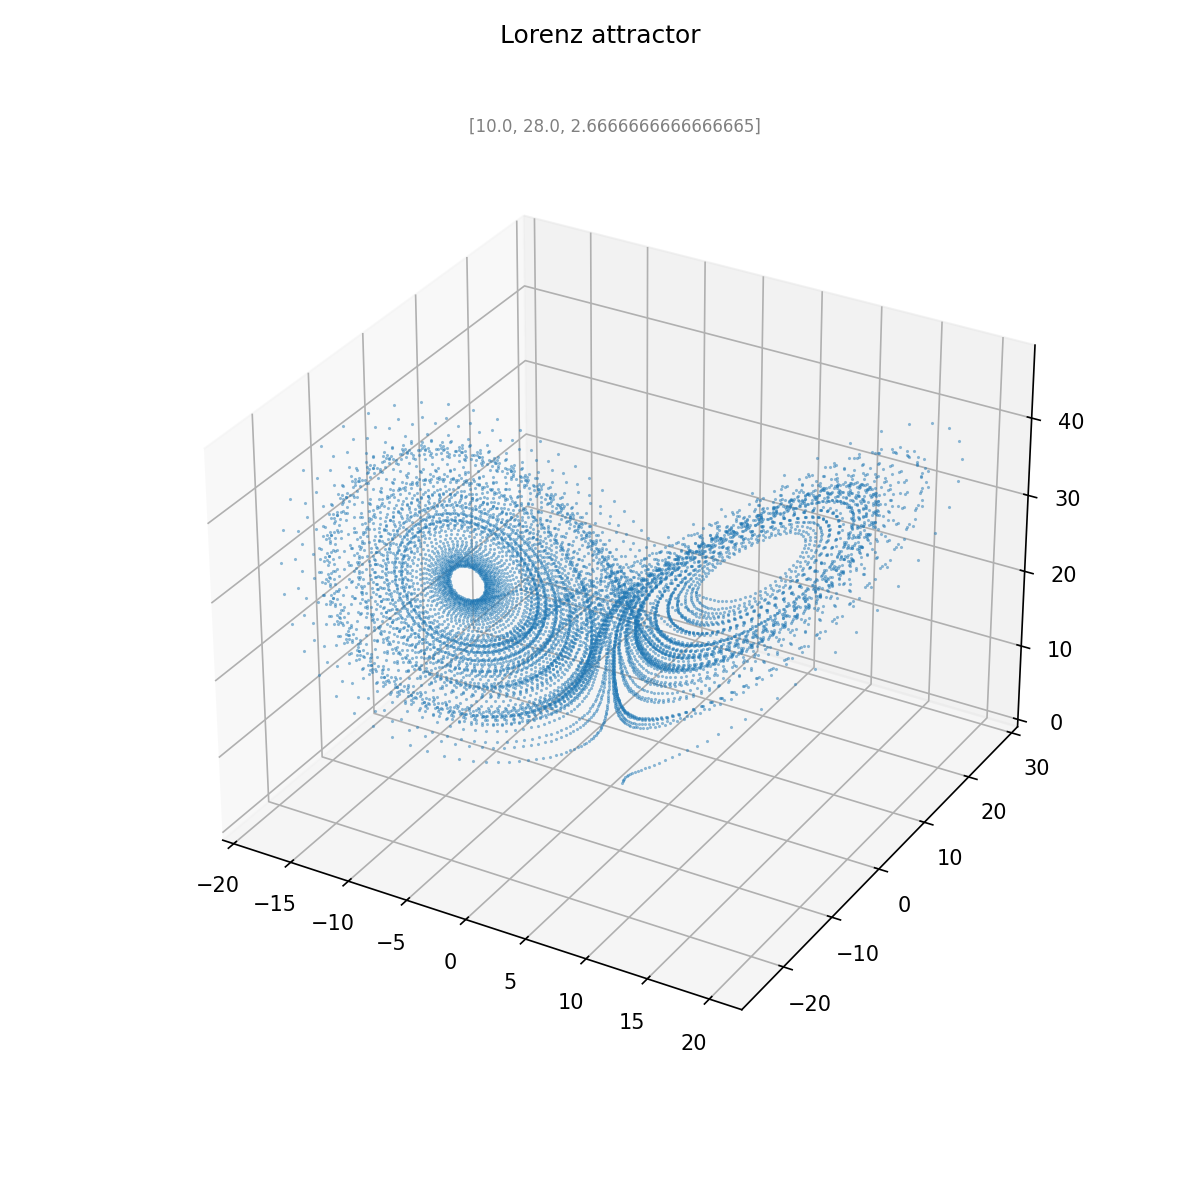
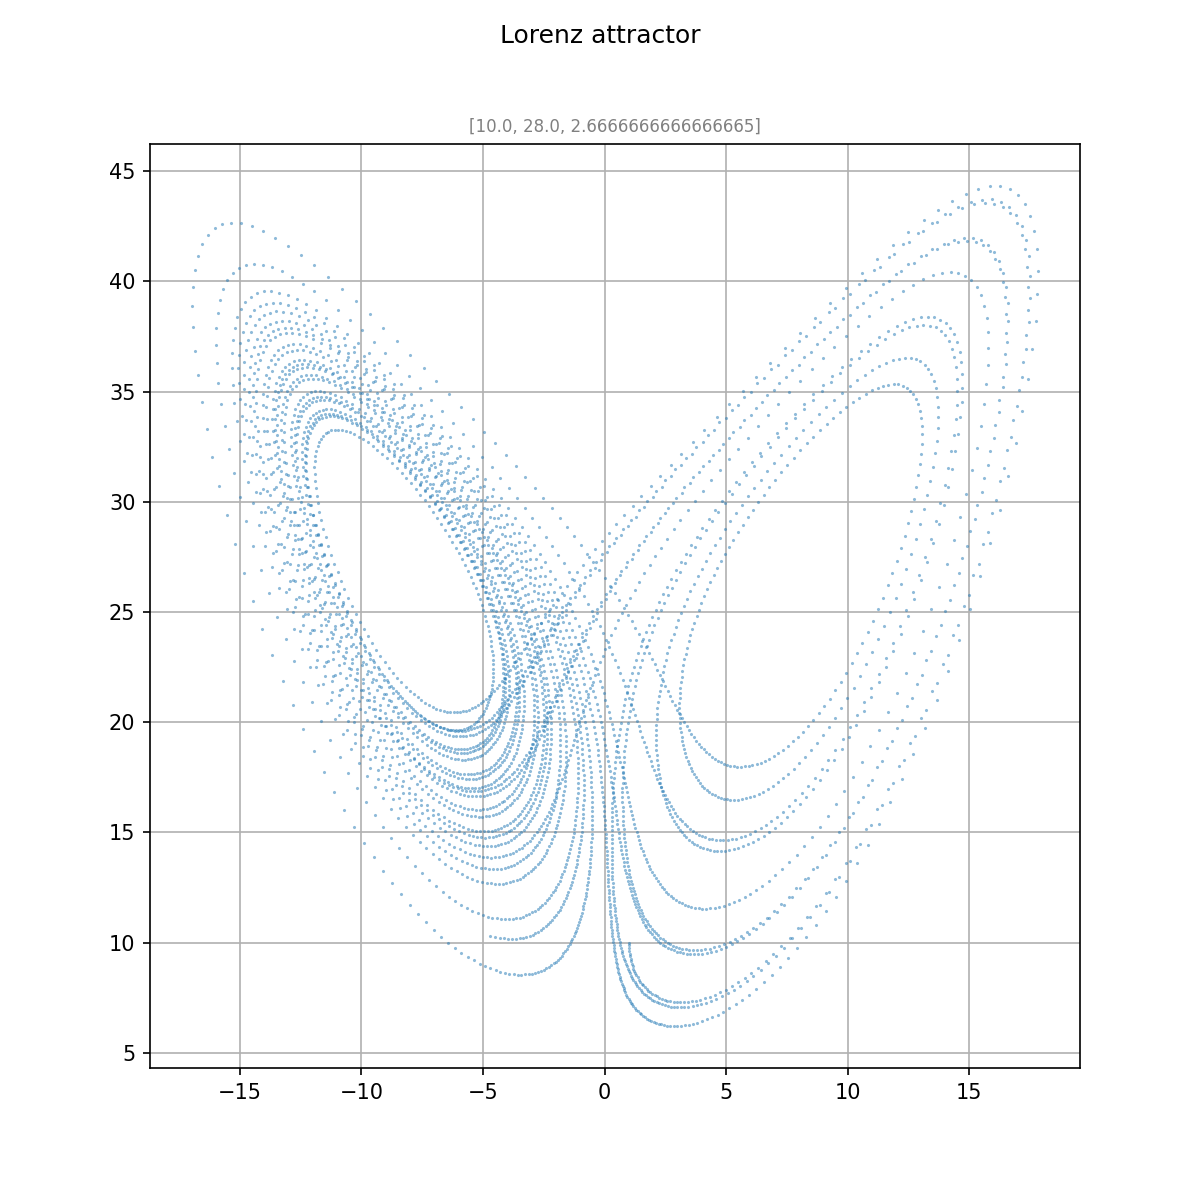
python version of lorenz attractor

diff --git a/ode/lorenz_attractor/python/attractor.py b/ode/lorenz_attractor/python/attractor.py
@@ -1,12 +1,11 @@
 import matplotlib.pyplot as plt
-
 from scipy.integrate import solve_ivp
 
-u0 = [1.0, 0.0, 0.0]
+u0 = [1.0, 1.0, 10.0]
 params = [10.0, 28.0, 8/3]
 
-t_step = 0.01
-N_max = 10000
+t_step = 0.005
+N_max = 4801
 t_max = N_max*t_step
 
 def f(t, u):
@@ -20,15 +19,16 @@ sol = solve_ivp(
     u0,
     t_eval=[n*t_step for n in range(0, N_max)],
     method="DOP853",
-    rtol=1e-10,
-    atol=1e-9
+    rtol=5e-11,
+    atol=1e-11
 )
 
 fig = plt.figure(figsize=(8, 8))
-ax = fig.add_subplot(111, projection='3d')
+# ax = fig.add_subplot(111, projection='3d')
+ax = fig.add_subplot()
 ax.plot(
     sol.y[0, :],
-    sol.y[1, :],
+    # sol.y[1, :],
     sol.y[2, :],
     fillstyle='full',
     marker='o',
@@ -39,6 +39,7 @@ ax.plot(
 label = '%s' % params
 plt.suptitle("Lorenz attractor")
 plt.title(label, color='grey', size=8)
+plt.grid()
 
 plt.show()
 fig.savefig("orbit.png", dpi=150)

diff --git a/ode/lorenz_attractor/README.md b/ode/lorenz_attractor/README.md
@@ -37,6 +37,6 @@ $$
 
 The system exhibits chaotic behavior for values near $\sigma = 10$, $\rho = 28$, $\beta = \frac{8}{3}$.
 
-For initial conditions $(1, 0, 0)$
+For initial conditions $(1, 1, 10)$
 
 ![lorenz-attractor-numeric-solution](plotutils/orbit.png)
